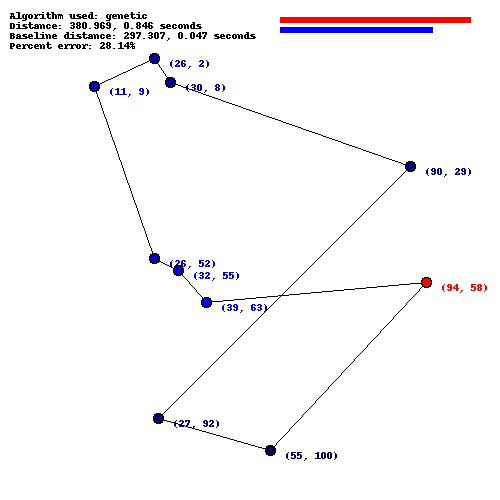
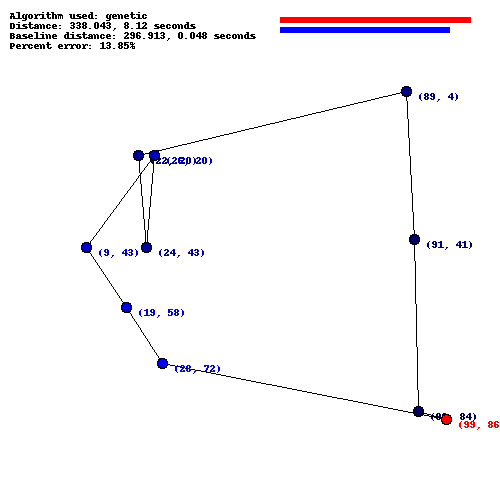
.

diff --git a/helpers.py b/helpers.py
@@ -35,7 +35,7 @@ def update(ourset, num, n):
     return ourset
 
 def clear():
-    """ use to clear solution_set or distance_set """
+    """ use to clear solution_set, distance_set, or time_set """
     return [[], [], []]
 
 def percent_error(d1, d2):
@@ -68,15 +68,15 @@ def create_png(num, solution_set, distance_set, start_end, cities, d, t1, t2):
     path_length = len(path)
     
     size = (500,500)
-    padding = (50,50)
     im = Image.new("RGB",size,(255,255,255))
 
     draw = ImageDraw.Draw(im)
     font = ImageFont.load_default()
 
     s = 4 #scale
-    p = 50 #padding, shift map over to middle of image
-    tp = 15 + p #shift over text padding a bit to account for vertices later        
+    hp = 50 # padding, shift map over to middle of image
+    vp = 75 # more padding
+    tp = 12 + hp #shift over text padding a bit to account for vertices later        
     low_bound = 90
     color = (255 - low_bound) / (path_length - 1) # use to change colors
 
@@ -85,27 +85,27 @@ def create_png(num, solution_set, distance_set, start_end, cities, d, t1, t2):
         c1 = path[i]
         c2 = path[i + 1]
 
-        draw.line((s*c1[0]+p, s*c1[1]+p, s*c2[0]+p, s*c2[1]+p), fill = (0,0,0))
+        draw.line((s*c1[0]+hp, s*c1[1]+vp, s*c2[0]+hp, s*c2[1]+vp), fill = (0,0,0))
         #label each city with coordinates
-        draw.text((s*c1[0]+tp, s*c1[1]+p), str(c1), font=font, fill = (0,0,i*color+low_bound))
+        draw.text((s*c1[0]+tp, s*c1[1]+vp), str(c1), font=font, fill = (0,0,i*color+low_bound))
 
     c1 = path[path_length-1] #this is the starting city due to the way append works
     c2 = path[0]
-    draw.line((s*c1[0]+p, s*c1[1]+p, s*c2[0]+p, s*c2[1]+p), fill = (0,0,0))
-    draw.text((s*c1[0]+tp, s*c1[1]+p), str(c1), font=font, fill = (255,0,0))
+    draw.line((s*c1[0]+hp, s*c1[1]+vp, s*c2[0]+hp, s*c2[1]+vp), fill = (0,0,0))
+    draw.text((s*c1[0]+tp, s*c1[1]+vp), str(c1), font=font, fill = (255,0,0))
     
     #draw vertices (that aren't the starting/ending)
     path.remove(city)
     for i in range(len(path)):
         pos = path[i]
-        x = s*pos[0] + p
-        y = s*pos[1] + p
+        x = s*pos[0] + hp
+        y = s*pos[1] + vp
         draw.ellipse((x - 5, y - 5, x + 5, y + 5), outline=(0, 0, 0),
                      fill = ((0, 0, (i*color+low_bound))))
 
     #draw starting/ending city with RED
-    x = s*city[0] + p
-    y = s*city[1] + p
+    x = s*city[0] + hp
+    y = s*city[1] + vp
     draw.ellipse((x - 5, y - 5, x + 5, y + 5), outline = (0, 0, 0), fill = (255,0,0))
 
     d1, d2 = scale_distance(distance_set[num], d, 170)

diff --git a/tsp_genetic.py b/tsp_genetic.py
@@ -30,6 +30,9 @@ def tsp_genetic(num, sols, g, start_end, cities, locs):
         for i in range(len(solution_lst)):
             new_sol_lst[i] = shuffle_sol(solution_lst[i])
 
+        for i in range(len(new_sol_lst)):
+            assert new_sol_lst[i] != None
+
         return new_sol_lst
 
     def solution_len(sol, g, start_end):
@@ -42,6 +45,7 @@ def tsp_genetic(num, sols, g, start_end, cities, locs):
             total_dist += g.distance(sol[i], sol[i + 1])
         # add distance between end of solution and initial city
         total_dist += g.distance(sol[length - 1], start_end)
+        assert total_dist > 0
         return total_dist
 
     def fitness(sol, g, initial):
@@ -94,6 +98,8 @@ def tsp_genetic(num, sols, g, start_end, cities, locs):
         while p1 is p2:
             p1 = weighted_random(solution_lst, g, initial)
             p2 = weighted_random(solution_lst, g, initial)
+        assert p1 != None
+        assert p2 != None
         return (p1, p2)
 
     def get_rand(parentsol, child):
@@ -185,6 +191,7 @@ def tsp_genetic(num, sols, g, start_end, cities, locs):
                 #doesn't matter which one is appended
                 child.append(next1)
                 x = next1
+        assert len(child) == len(parents[2])
         return child
 
     def mutation_random(solution_lst, g, initial):

diff --git a/user_interface.py b/user_interface.py
@@ -47,8 +47,7 @@ def choose_option(g, start_end, locs, cities, e_file, solution_set, distance_set
     # run genetic
     elif option == 2:
         sols = []
-        children = int(raw_input("How many rounds to run genetic? Please enter a \
-number less than 2^25 to account for hardware limitations. \n --> "))
+        children = int(raw_input("How many rounds to run genetic? Please be aware larger values will take more time. \n --> "))
         print "Running... "
 
         # start time
